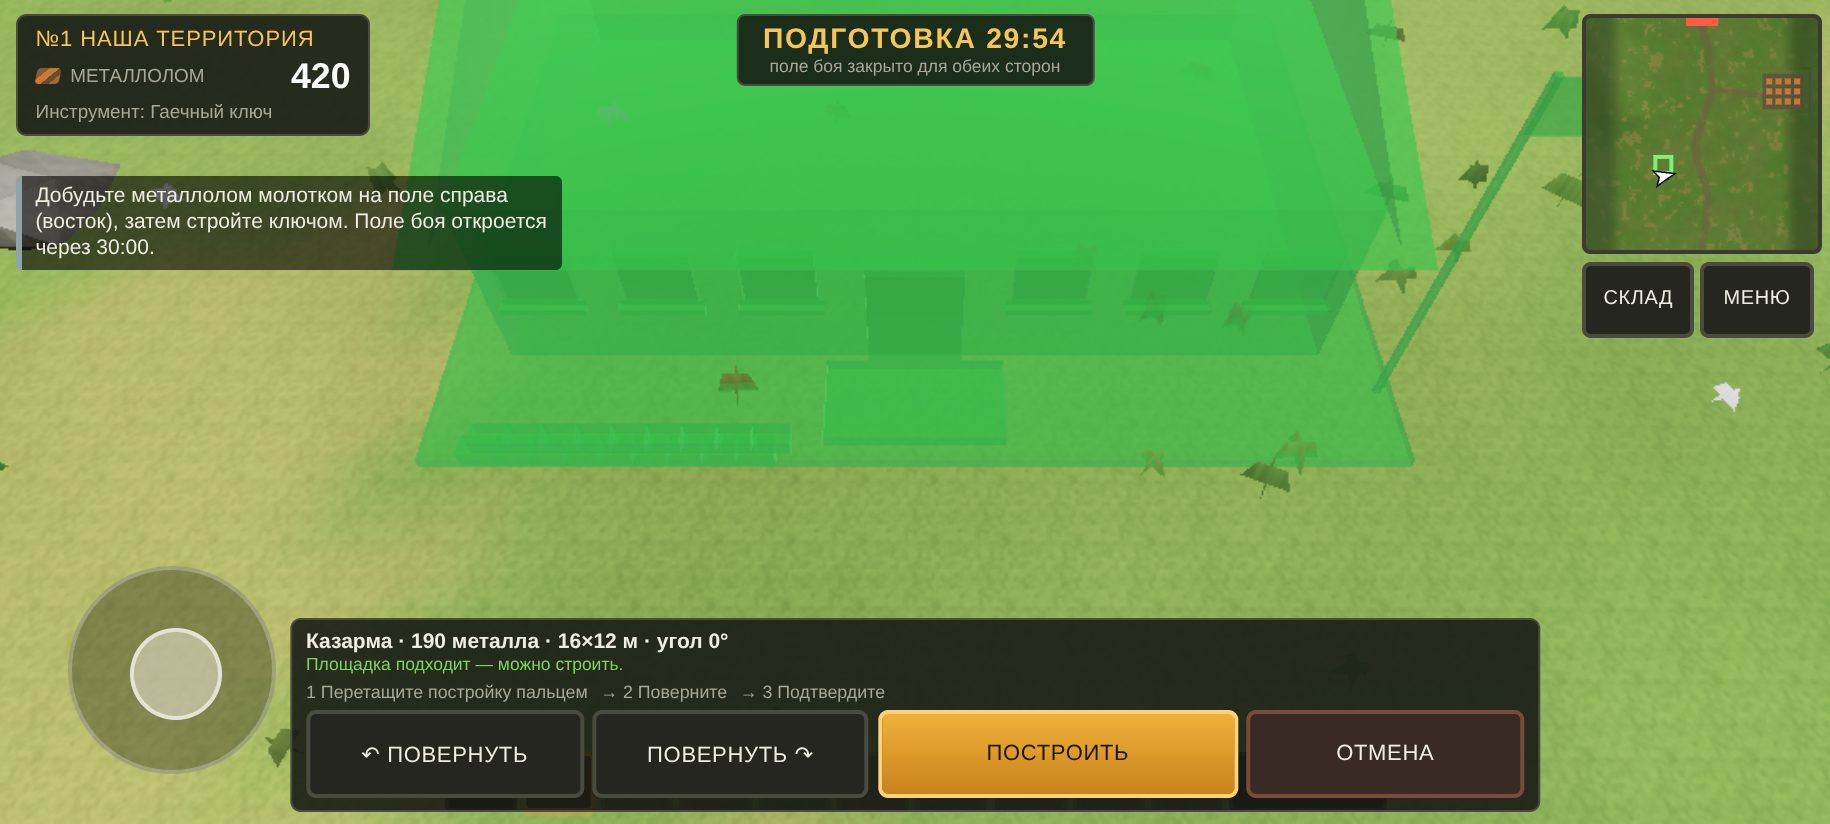
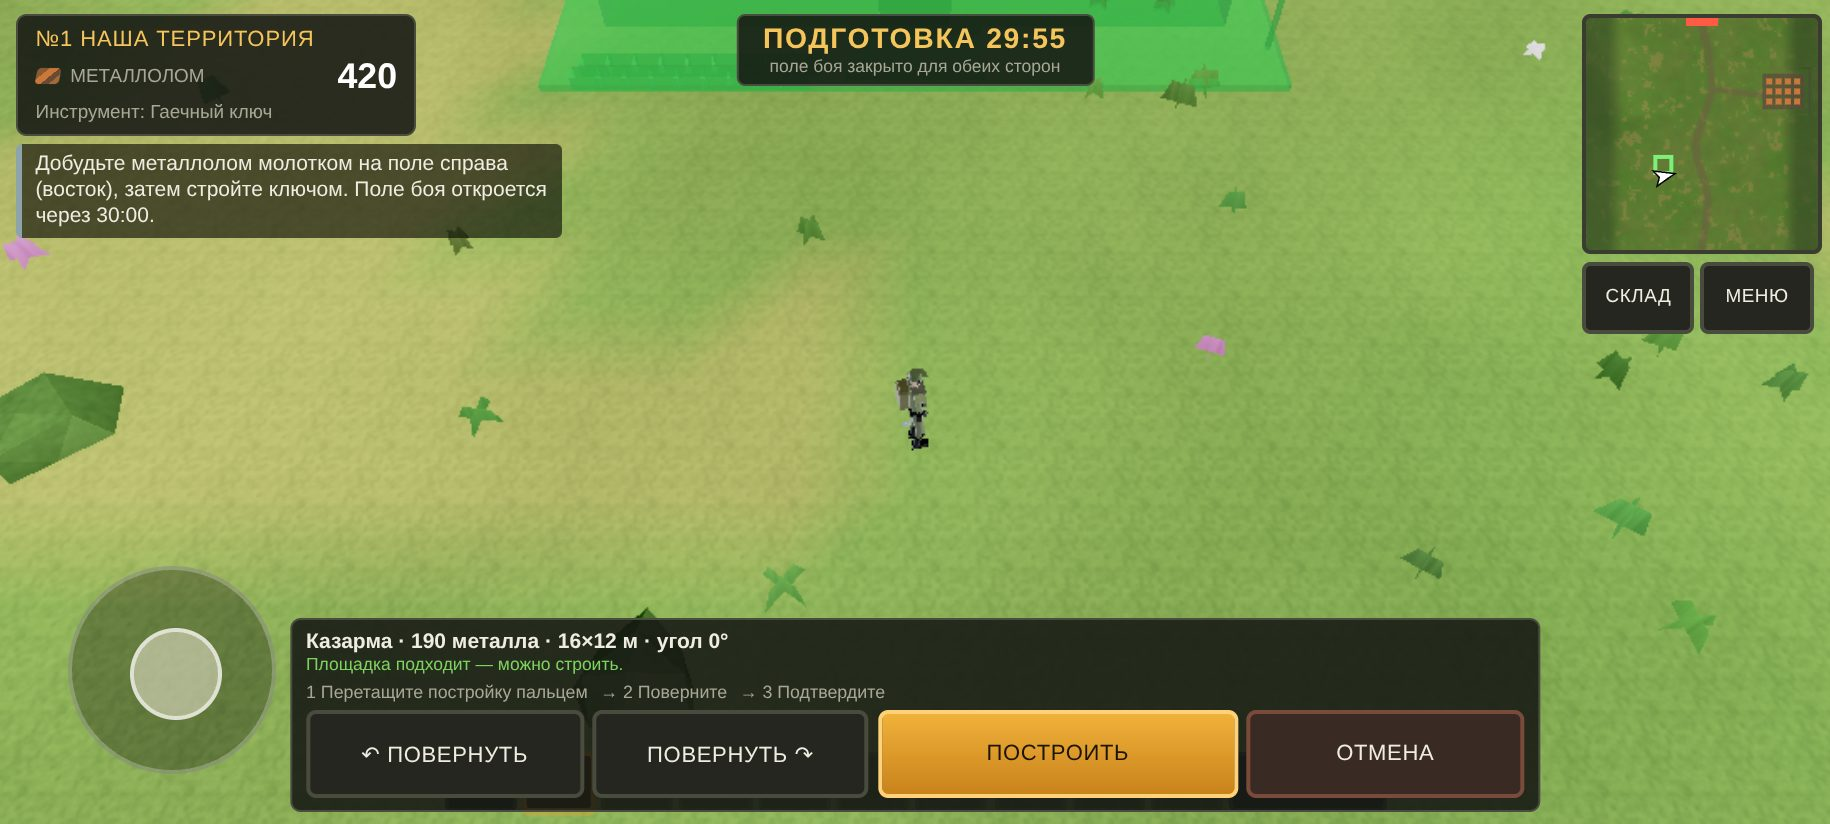
Кнопки меньше, кнопка действия — только когда есть действие; тени выключены
- кнопка действия 9em → 6em, стройка 6,2 → 4,8em, огонь 7 → 5,4em, выход 5,6 → 4,4em;
  огонь и стройка — рядом с кнопкой действия внизу справа
- кнопка действия скрыта, когда рядом нечего делать (вместо серого круга)
- тени отключены во всех режимах качества (легче для телефона)

Claude-Session: https://claude.ai/code/session_012mFYCnPM4jZ3cggRAirJGR

diff --git a/style.css b/style.css
@@ -59,11 +59,11 @@ button { font: inherit; }
 .slot { width: 4.2em; height: 3.4em; border-radius: 0.4em; border: 2px solid #4a4b3f; background: rgba(28, 30, 24, 0.9); color: var(--fg); font-family: var(--display); font-size: 0.82em; cursor: pointer; padding: 0.2em; }
 .slot.sel { border-color: var(--accent); background: #4a3916; box-shadow: 0 0 0 2px rgba(231, 164, 44, 0.35); } .slot.empty { opacity: 0.45; }
 .btn.inv { font-size: 0.85em; min-height: 0; }
-.act { position: absolute; right: calc(1.6em + env(safe-area-inset-right, 0px)); bottom: calc(1.6em + env(safe-area-inset-bottom, 0px)); width: 9em; height: 9em; border-radius: 50%; border: 3px solid rgba(255, 220, 140, 0.8); background: radial-gradient(circle at 40% 35%, #f0b23a, #b9741a); color: #1d1406; display: flex; flex-direction: column; align-items: center; justify-content: center; cursor: pointer; touch-action: none; }
-.act b { font-family: var(--display); font-size: 1.02em; letter-spacing: 0; white-space: nowrap; } .act small { font-size: 0.75em; max-width: 90%; line-height: 1.1; }
+.act { position: absolute; right: calc(1.4em + env(safe-area-inset-right, 0px)); bottom: calc(1.4em + env(safe-area-inset-bottom, 0px)); width: 6em; height: 6em; border-radius: 50%; border: 3px solid rgba(255, 220, 140, 0.8); background: radial-gradient(circle at 40% 35%, #f0b23a, #b9741a); color: #1d1406; display: flex; flex-direction: column; align-items: center; justify-content: center; cursor: pointer; touch-action: none; }
+.act b { font-family: var(--display); font-size: 0.9em; letter-spacing: 0; white-space: nowrap; } .act small { font-size: 0.66em; max-width: 86%; line-height: 1.05; max-height: 2.2em; overflow: hidden; }
 .act.off { filter: grayscale(1) brightness(0.6); opacity: 0.55; } .act.warn { background: radial-gradient(circle at 40% 35%, #b7b7a8, #6f6f66); }
 .act:active { transform: scale(0.96); }
-.act.build { right: calc(11.6em + env(safe-area-inset-right, 0px)); bottom: calc(4.2em + env(safe-area-inset-bottom, 0px)); width: 6.2em; height: 6.2em; background: radial-gradient(circle at 40% 35%, #7fa1ad, #3e5a64); border-color: #b8d6e0; color: #fff; }
+.act.build { right: calc(8.2em + env(safe-area-inset-right, 0px)); bottom: calc(1.6em + env(safe-area-inset-bottom, 0px)); width: 4.8em; height: 4.8em; background: radial-gradient(circle at 40% 35%, #7fa1ad, #3e5a64); border-color: #b8d6e0; color: #fff; }
 .joy-zone { position: absolute; left: 0; bottom: 0; width: 38vw; height: 64vh; touch-action: none; }
 .joy-base { position: absolute; left: calc(8em + env(safe-area-inset-left, 0px)); top: calc(100% - 7.5em - env(safe-area-inset-bottom, 0px)); width: 9.5em; height: 9.5em; margin: -4.75em 0 0 -4.75em; border-radius: 50%; background: rgba(0, 0, 0, 0.3); border: 2px solid rgba(255, 255, 255, 0.25); }
 .joy-base.active { background: rgba(0, 0, 0, 0.4); } .joy-base.run { border-color: var(--accent); }
@@ -109,8 +109,8 @@ button { font: inherit; }
 .hpbar i { position: absolute; left: 0; top: 0; bottom: 0; background: linear-gradient(#7ed35f, #4f9a35); transition: width 0.2s; } .hpbar i.low { background: linear-gradient(#ef5a40, #a8321f); }
 .hpbar span { position: relative; padding-left: 0.4em; font-family: var(--display); font-size: 0.85em; text-shadow: 0 1px 2px #000; }
 .battle { font-size: 0.85em; color: #ffd0c6; font-family: var(--mono); }
-.act.fire { right: calc(11.6em + env(safe-area-inset-right, 0px)); bottom: calc(10.8em + env(safe-area-inset-bottom, 0px)); width: 7em; height: 7em; background: radial-gradient(circle at 40% 35%, #f2725a, #9f2b18); border-color: #ffc0a8; color: #fff; }
-.act.exit { right: calc(1.6em + env(safe-area-inset-right, 0px)); bottom: calc(11.4em + env(safe-area-inset-bottom, 0px)); width: 5.6em; height: 5.6em; background: radial-gradient(circle at 40% 35%, #c8c8b8, #6d6d62); border-color: #eee; color: #111; }
+.act.fire { right: calc(8.2em + env(safe-area-inset-right, 0px)); bottom: calc(1.4em + env(safe-area-inset-bottom, 0px)); width: 5.4em; height: 5.4em; background: radial-gradient(circle at 40% 35%, #f2725a, #9f2b18); border-color: #ffc0a8; color: #fff; }
+.act.exit { right: calc(1.4em + env(safe-area-inset-right, 0px)); bottom: calc(8.2em + env(safe-area-inset-bottom, 0px)); width: 4.4em; height: 4.4em; background: radial-gradient(circle at 40% 35%, #c8c8b8, #6d6d62); border-color: #eee; color: #111; }
 .slot.weapon { border-color: #a35b48; }
 .recon-bar { position: absolute; left: 50%; transform: translateX(-50%); bottom: calc(0.6em + env(safe-area-inset-bottom, 0px)); padding: 0.5em 0.8em; display: flex; gap: 0.8em; align-items: center; pointer-events: auto; border-color: var(--bad); max-width: 92vw; }
 .recon-bar b { font-family: var(--display); color: #ffb4a4; white-space: nowrap; } .recon-bar small { color: var(--dim); }

diff --git a/ui.js b/ui.js
@@ -194,7 +194,7 @@ export class UI {
     if (!this.battle.hidden) this.battle.textContent = `Поле боя: наши ${sm.friendlyOnField + (c.sector_index === 1 ? 1 : 0)} · враг ${sm.enemyOnField} · потери ${sm.losses.friendly}/${sm.losses.enemy}`;
     if (app.recon) { const r = c.enemy.report(); this.reconInfo.textContent = `Зданий ${r.buildings} · рабочие ${r.workers + 1} · механики ${r.mechanics} · солдаты ${r.soldiers} (на поле ${sm.enemyOnField}) · металл ${r.scrap_metal}. Джойстик/WASD — обзор.`; }
     const ctx = this.context();
-    this.actBtn.classList.toggle('off', !ctx); this.actBtn.classList.toggle('warn', !!ctx && ctx.ok === false);
+    this.actBtn.hidden = !ctx || !!app.placing || !!app.recon; this.actBtn.classList.toggle('warn', !!ctx && ctx.ok === false);
     this.actBtn.firstChild.textContent = ctx ? ctx.label : 'ДЕЙСТВИЕ'; this.actBtn.lastChild.textContent = ctx ? ctx.sub : 'подойдите к объекту';
     if (this.win && this.win.tick) this.win.tick();
     this.drawMinimap();

diff --git a/main.js b/main.js
@@ -21,9 +21,9 @@ import { UI } from './ui.js';
 
 const v = (x = 0, y = 0, z = 0) => new V3(x, y, z);
 const QUALITY = [
-  { name: 'Низкое', shadows: false, shadowSize: 1024, shadowDist: 26, scale: 0.65, dpr: 1.25, draw: 110, fps: 30 },
-  { name: 'Среднее', shadows: true, shadowSize: 1024, shadowDist: 32, scale: 0.8, dpr: 1.5, draw: 150, fps: 30 },
-  { name: 'Высокое', shadows: true, shadowSize: 2048, shadowDist: 44, scale: 1, dpr: 2, draw: 190, fps: 60 },
+  { name: 'Низкое', shadows: false, shadowSize: 512, shadowDist: 26, scale: 0.65, dpr: 1.25, draw: 110, fps: 30 },
+  { name: 'Среднее', shadows: false, shadowSize: 512, shadowDist: 32, scale: 0.8, dpr: 1.5, draw: 150, fps: 30 },
+  { name: 'Высокое', shadows: false, shadowSize: 512, shadowDist: 44, scale: 1, dpr: 2, draw: 190, fps: 60 },
 ];
 const SKEY = 'supply_line_settings';
 const touchDevice = () => ('ontouchstart' in window) || navigator.maxTouchPoints > 0;

diff --git a/README.md b/README.md
@@ -23,7 +23,7 @@ python3 -m http.server 8080
 # Телефон: http://<IP-компьютера>:8080/  — повернуть горизонтально
 ```
 
-Сборка не нужна. Нужен браузер с WebGL2 (Chrome/Edge/Firefox, Safari 15+, Chrome на Android 8+). Прогресс сохраняется в браузере сам (раз в 10 с, при смене сектора и при сворачивании); новая кампания — в главном меню или в меню паузы.
+Сборка не нужна. Нужен браузер с WebGL2 (Chrome/Edge/Firefox, Safari 15+, Chrome на Android 8+). Тени отключены — картинка проще и легче для телефона. Прогресс сохраняется в браузере сам (раз в 10 с, при смене сектора и при сворачивании); новая кампания — в главном меню или в меню паузы.
 
 Автотесты (нужны Node и Playwright с Chromium):
 
@@ -37,7 +37,7 @@ node tools/phone_shots.js out/       # снимки в альбомной ори
 
 ## Управление
 
-**Телефон (альбомная ориентация):** джойстик слева; справа большая кнопка действия — подпись показывает, что произойдёт: «ДОБЫТЬ» у кучи, «ИСПОЛЬЗОВАТЬ» у здания (до 3 м), «УПРАВЛЕНИЕ» у стола в штабе, «СЕСТЬ» у машины, «ДОБЫТЬ ×2» в сборщике металлолома. С гаечным ключом — кнопка «СТРОЙКА». Когда в руках оружие или вы в вооружённой машине — красная кнопка «ОГОНЬ» (прицел — автоматически по ближайшему врагу); в машине — «ВЫЙТИ». Внизу — 10 ячеек инвентаря.
+**Телефон (альбомная ориентация):** джойстик слева; справа внизу кнопка действия — появляется, только когда рядом есть что сделать, и подписью показывает, что произойдёт: «ДОБЫТЬ» у кучи, «ИСПОЛЬЗОВАТЬ» у здания (до 3 м), «УПРАВЛЕНИЕ» у стола в штабе, «СЕСТЬ» у машины, «ДОБЫТЬ ×2» в сборщике металлолома. С гаечным ключом — кнопка «СТРОЙКА». Когда в руках оружие или вы в вооружённой машине — красная кнопка «ОГОНЬ» (прицел — автоматически по ближайшему врагу); в машине — «ВЫЙТИ». Внизу — 10 ячеек инвентаря.
 
 **ПК:** WASD — движение (за рулём — куда ехать), Shift — бег/газ, E — действие, пробел или ЛКМ — огонь, R — перезарядка, 1–0 — ячейки, B — стройка, I/Tab — инвентарь, Esc — пауза/отмена/выход из разведки. При размещении: мышь двигает призрак, Q/R или колесо — поворот на 90°, Enter — построить. F3 — счётчик FPS.
 
